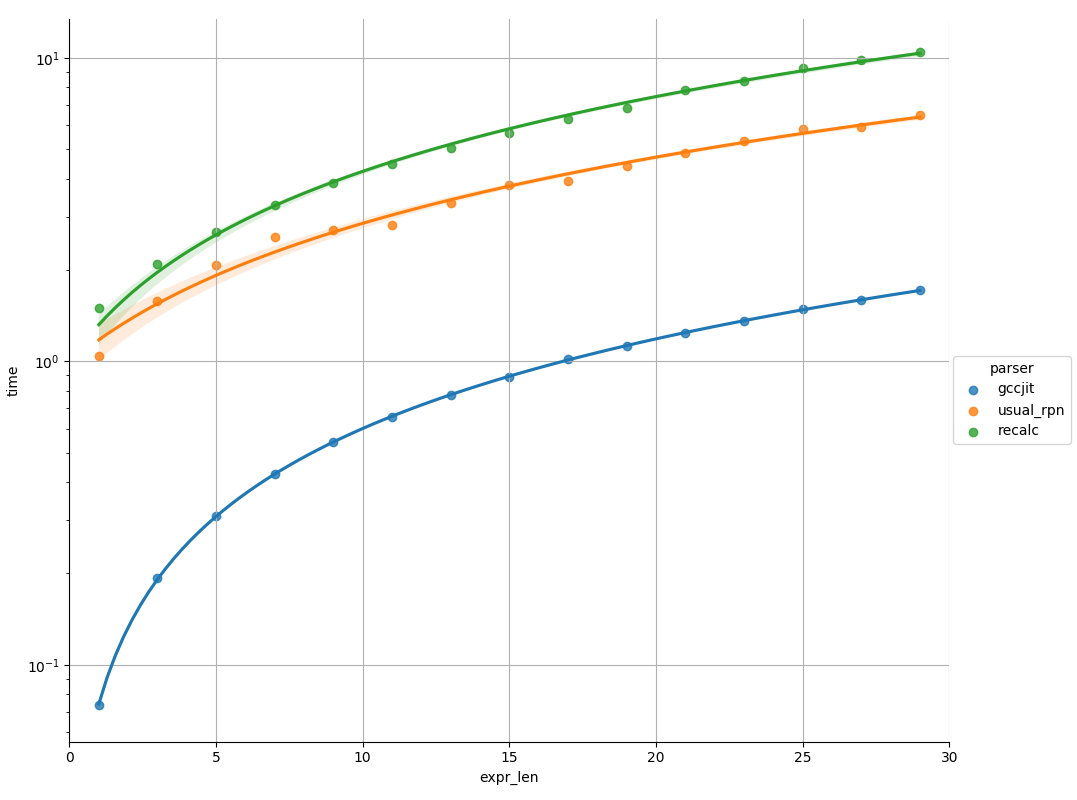
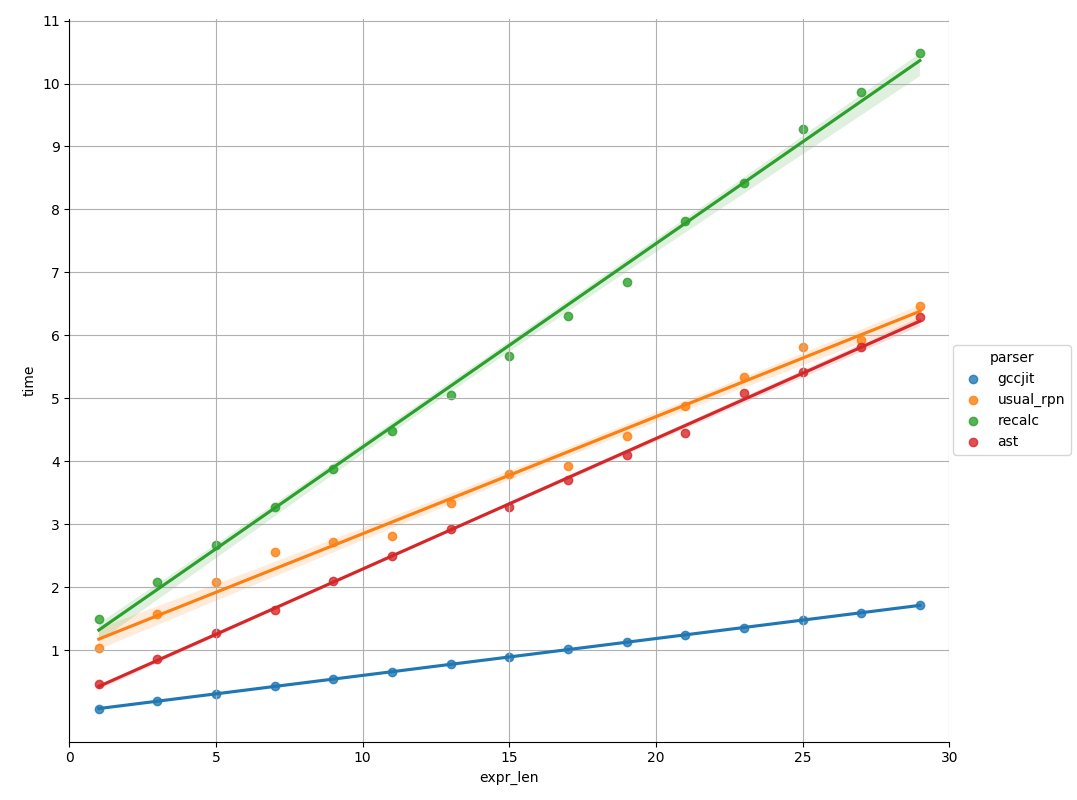
AST has been done

diff --git a/ast.c b/ast.c
@@ -1,0 +1,242 @@
+#include <math.h>
+#include <stdbool.h>
+#include <stdio.h>
+#include <stdlib.h>
+#include <time.h>
+
+#include "values.h"
+#include "my_yylex.h"
+#include "executions.h"
+
+
+#define ATTEMPTS_PER_TEST 5
+#define MAX_STATEMENT_SIZE 30 // < 31
+
+
+void build_ast(tables_t* tables, token_t* input, int len,
+                  ast_node_t* arena, int* arena_top)
+{
+    int state[MAX_STATES] = {0};
+    int stack_top = 0;
+
+    int input_ptr = 0;
+    token_t token = input[input_ptr++];
+
+    int arena_idx[BUFFER_SIZE];
+
+    len++;
+    while (input_ptr <= len)
+    {
+        if (input_ptr == len)
+        {
+            token.id = 0;
+        }
+        
+        if (token.id == INVALID_TOKEN)
+        {
+            printf("Invalid token has been found at %d-th position of input.",
+                   (int)token.data);
+            exit(0);
+        }
+        
+        int cur_state = state[stack_top];
+        table_cell_t cell = tables->trans[cur_state][token.id];
+
+        switch (cell.action)
+        {
+            case AC_SHIFT:
+                stack_top++;
+                (*arena_top)++;
+                state[stack_top] = cell.num;
+                if (token.data != X)
+                {
+                    arena[*arena_top].type = AT_LEAF;
+                    arena[*arena_top].val = token.data;
+                }
+                else
+                {
+                    arena[*arena_top].type = AT_X;
+                }
+                token = input[input_ptr++];
+
+                arena_idx[stack_top] = *arena_top;
+                break;
+                
+            case AC_REDUCE:
+                (*arena_top)++;
+                arena[*arena_top].type = AT_FUNCTION;
+                arena[*arena_top].fun_idx = cell.num;
+                if (tables->grammar_size[cell.num] == 3)
+                {
+                    arena[*arena_top].lf = arena_idx[stack_top - 2];
+                    arena[*arena_top].rg = arena_idx[stack_top];
+                }
+                else
+                {
+                    arena[*arena_top].rg = arena_idx[stack_top];
+                }
+
+                stack_top -= tables->grammar_size[cell.num];
+                cur_state = state[stack_top];
+                state[++stack_top] = tables->
+                    trans[cur_state][tables->grammar_left[cell.num]].num;
+
+                arena_idx[stack_top] = *arena_top;
+                break;
+                
+            case AC_ACCEPT:
+                return;
+                
+            case AC_ERROR:
+                printf("Invalid token [id=%d] for the %d-th state.\n",
+                       token.id, cur_state);
+                exit(0);
+        }
+    }
+}
+
+
+long double calculate(ast_node_t* arena, int arena_top, long double x,
+               tables_t* tables)
+{
+    long double aux[3];
+    int i;
+    for (i = 0; i <= arena_top; i++)
+    {
+        if (arena[i].type == AT_FUNCTION)
+        {
+            aux[0] = arena[arena[i].lf].val;
+            aux[2] = arena[arena[i].rg].val;
+            apply[arena[i].fun_idx](&aux, 2);
+
+            if (tables->grammar_size[arena[i].fun_idx] == 3)
+            {
+                arena[i].val = aux[0];
+            }
+            else
+            {
+                arena[i].val = aux[2];
+            }            
+        }
+        else if (arena[i].type == AT_X)
+        {
+            arena[i].val = x;
+        }
+    }
+
+    return arena[arena_top].val;
+}
+
+
+
+void measure_time(ast_node_t* arena, int arena_top, tables_t* tables,
+                  token_t* input)
+{
+    double timer[MAX_STATEMENT_SIZE];
+    int len;
+    for (len = 1; len < MAX_STATEMENT_SIZE; len += 2)
+    {
+        printf("[len = %d]\n", len);
+        double sum = 0;
+        int attempt;
+        for (attempt = 0; attempt < ATTEMPTS_PER_TEST; attempt++)
+        {            
+            arena_top = 0;
+            build_ast(tables, input, len, arena, &arena_top);
+            
+            double start_time = clock();
+            
+            int x;
+            for (x = 0; x < 1e7; x++)
+            {
+                calculate(arena, arena_top, x, tables);
+            }
+            
+            double elapsed = ((clock() - start_time) / CLOCKS_PER_SEC);
+            sum += elapsed;
+            
+            printf("Elapsed time: %.3f ms\n", elapsed);
+        }
+        timer[len] = sum / attempt;
+        
+        printf("_________________________________\n");
+        printf("Average elapsed time: %.3f ms\n", sum / attempt);
+    }
+    
+    printf("\n");
+    int i;
+    for (i = 1; i < MAX_STATEMENT_SIZE; i += 2)
+    {
+        printf("ast,%d,%.3lf\n", i, timer[i]);
+    }
+    printf("\n");
+
+    
+}
+
+
+
+/*
+{
+    arena_top = 0;
+    build_ast(tables, input, 30, arena, &arena_top);
+    printf("%Lf\n", calculate(arena, arena_top, 50, tables));
+    printf("%Lf\n", calculate(arena, arena_top, 0, tables));
+
+    arena_top = 0;
+    build_ast(tables, input, 3, arena, &arena_top);
+    printf("%Lf\n", calculate(arena, arena_top, 50, tables));
+
+    
+    arena_top = 0;
+    build_ast(tables, input, 5, arena, &arena_top);
+    printf("%Lf\n", calculate(arena, arena_top, 50, tables));
+}
+*/
+
+void prepare_input(token_t* input)
+{
+    int i;
+    for (i = 0, input[i] = my_yylex(0); input[i].id;
+         input[++i] = my_yylex(0)); 
+}
+
+
+int main()
+{
+    tables_t tables = 
+    {
+        #include "syn_tables.h"
+    };
+
+    token_t input[200];
+    prepare_input(input);
+
+    int i;
+    for (i = 0; i < 70; i++)
+    {
+        //printf("[%d] %d %Lf\n", i, input[i].id, input[i].data);
+    }
+    
+    //measure_time(&tables, input);
+
+    int arena_top = 0;
+    ast_node_t arena[BUFFER_SIZE];
+
+    //printf("suck\n");
+    build_ast(&tables, input, 30, arena, &arena_top);
+
+    for (i = 0; i <= arena_top; i++)
+    {
+        ast_node_t a = arena[i];
+        printf("- %d -\n", i);
+        printf("type: %d\nfun_idx: %d\nval: %Lf\nlf: %d\nrg: %d\n",
+            a.type, a.fun_idx, a.val, a.lf, a.rg);
+        printf("------\n");
+    }
+
+    //printf("%Lf\n", calculate(arena, arena_top, 12, &tables));
+    measure_time(arena, arena_top, &tables, input);
+    
+    return 0;
+}

diff --git a/my_yylex.h b/my_yylex.h
@@ -70,8 +70,10 @@ token_t my_yylex(bool restart)
         //" + 10) * x + x - 12) / 313 + x) / 4"
         //" * 9 - 2 + x - 5) / 16"
         //" * 8 + x - 3) / 77";
+        
         "24.21 * 50 - 310 * 755 * x + x / 19"
         " + 69 + x * 49 - 12 + 5 / 4 * x - 7";
+        //"24.21 * x - 310 + 2";
         
    
     static int i = 0;

diff --git a/values.h b/values.h
@@ -165,4 +165,20 @@ typedef struct tables_t
     table_cell_t** trans;
 } tables_t;
 
+
+typedef enum
+{
+    AT_X,
+    AT_LEAF,
+    AT_FUNCTION,
+} ast_node_type_t;
+
+typedef struct ast_node_t
+{
+    int fun_idx;
+    long double val;
+    ast_node_type_t type;
+    int lf, rg;
+} ast_node_t;
+
 #endif /* _VALUES_H_ */

diff --git a/analysis.py b/analysis.py
@@ -16,7 +16,7 @@ def main():
                    truncate=True, size=8, aspect=1.2)
     pyplot.xlim(0, 30)
     pyplot.yticks(range(1, 12))
-    pyplot.yscale("log")
+    # pyplot.yscale("log")
     pyplot.grid(True)
     # pyplot.show()
     pyplot.savefig('benchmark.png')

diff --git a/usualRPN.c b/usualRPN.c
@@ -157,9 +157,9 @@ void measure_time()
 
 int main()
 {
-    //printf("%Lf\n", calculate(12, 30));
+    printf("%Lf\n", calculate(12, 30));
     
-    measure_time();
+    //measure_time();
     
     return 0;
 }
